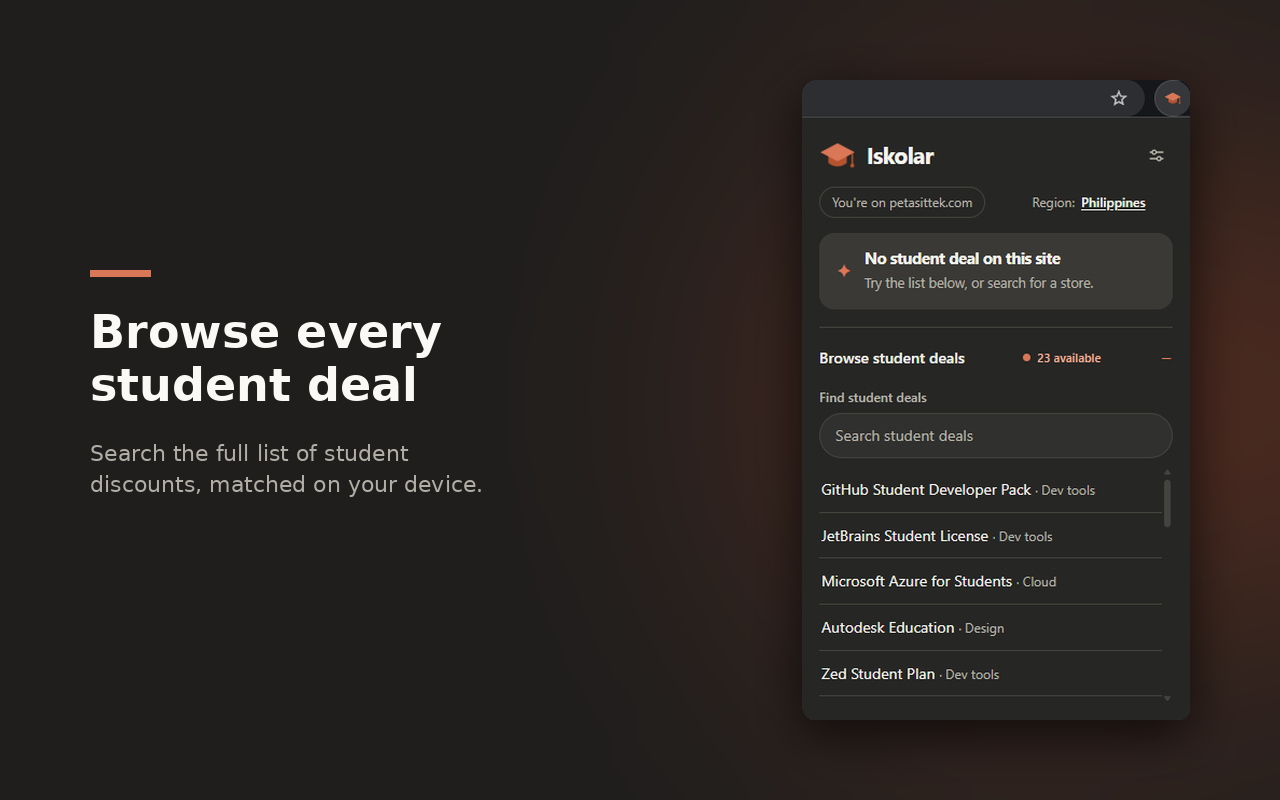
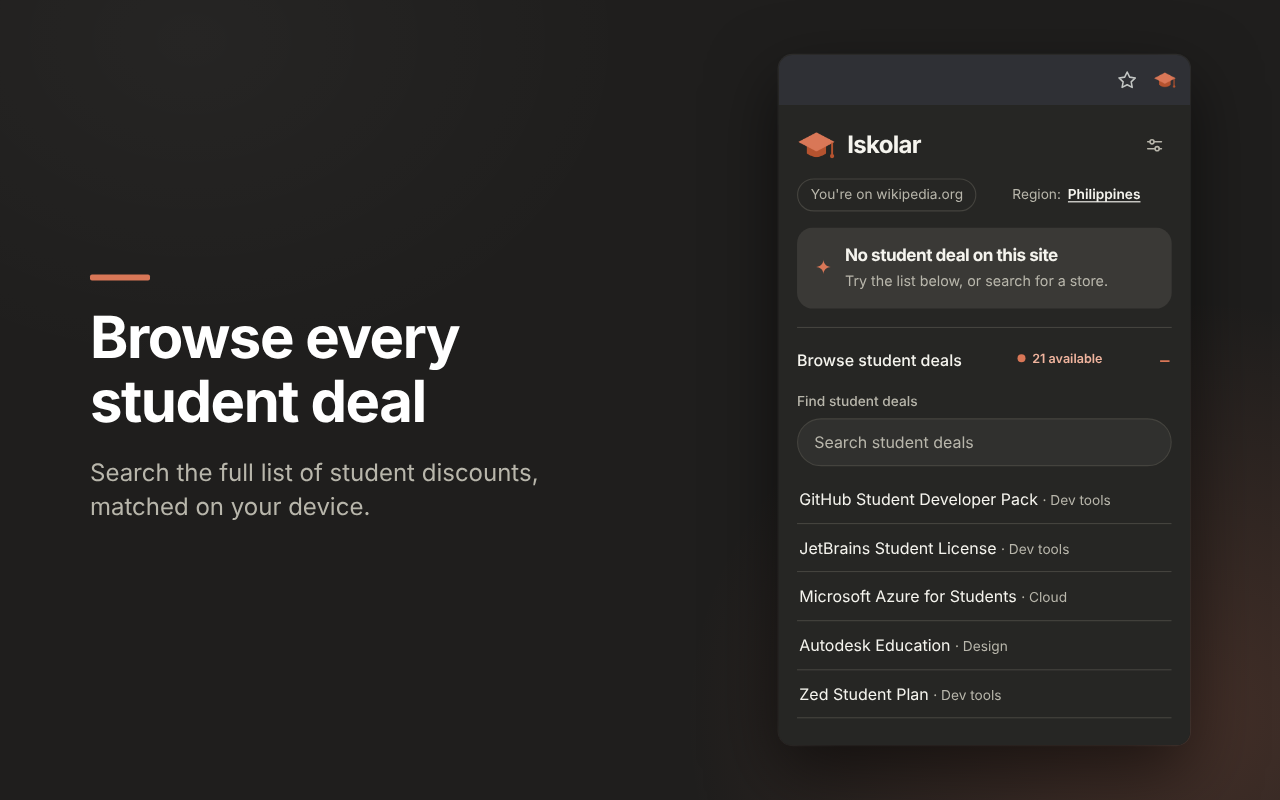
Update case study screenshots

diff --git a/iskolar/index.html b/iskolar/index.html
@@ -34,17 +34,19 @@
           <div><dt>Status</dt><dd>Live on the Chrome Web Store</dd></div>
           <div><dt>Stack</dt><dd>JavaScript, HTML, CSS, Manifest V3</dd></div>
         </dl>
-        <img class="shot" src="/images/iskolar.png" width="1280" height="800" loading="lazy" alt="Iskolar popup in dark mode showing a student offer for the website the user is visiting, with the caption Spot student perks as you browse.">
+        <img class="shot" src="/images/iskolar.png" width="1280" height="800" loading="lazy" alt="Iskolar popup on github.com showing the GitHub Student Developer Pack perk with a View offer button, under the caption Spot student perks as you browse.">
         <section>
           <h2>The project</h2>
           <p>Iskolar is built for students in the Philippines first, with global offers included. Click the extension icon on a website and it checks whether a student deal is known for that site, then shows the eligibility requirements, caveats, the last verification month, and a link to the official offer page.</p>
           <p>It is a guide, not a guarantee. Offers change, so every card points back to the provider's own page for the current terms.</p>
         </section>
+        <img class="shot" src="/images/iskolar-badge.png" width="1280" height="800" loading="lazy" alt="Iskolar popup on spotify.com with a green dot on the toolbar icon and the Spotify Premium Student offer expanded to show who qualifies, under the caption A green dot tells you there's a deal.">
         <section>
           <h2>Privacy by design</h2>
           <p>Matching happens in the popup against an offer list that ships with the extension. It asks only for the activeTab permission, opens only HTTPS links, and does not collect browsing history, page content, accounts, or analytics. Theme and footer preferences stay on the device.</p>
         </section>
-        <img class="shot" src="/images/iskolar-browse.png" width="1280" height="800" loading="lazy" alt="Iskolar popup listing student deals that can be browsed and searched, with the caption Browse every student deal.">
+        <img class="shot" src="/images/iskolar-browse.png" width="1280" height="800" loading="lazy" alt="Iskolar popup listing student deals with a search box, under the caption Browse every student deal.">
+        <img class="shot" src="/images/iskolar-philippines.png" width="1280" height="800" loading="lazy" alt="Iskolar popup on philippineairlines.com showing a 20% off student discount, under the caption Made for students in the Philippines.">
         <section>
           <h2>My role</h2>
           <p>I designed, built, and packaged Iskolar on my own. That covered domain matching against the bundled offers, region filtering for the Philippines and other countries, dark and light themes, a settings panel, and a browsable list of every student deal.</p>

diff --git a/civicguard/index.html b/civicguard/index.html
@@ -34,12 +34,13 @@
           <div><dt>Status</dt><dd>In development, live</dd></div>
           <div><dt>Stack</dt><dd>Laravel 12, MySQL, Tailwind CSS, Alpine.js</dd></div>
         </dl>
-        <img class="shot civic" src="/images/civicguard.png" width="1919" height="913" loading="lazy" alt="CivicGuard home page reading Report an issue in Barangay Maimpis, with a five-step example of following a report from problem to resolved.">
+        <img class="shot civic" src="/images/civicguard.png" width="1440" height="900" loading="lazy" alt="CivicGuard home page reading Report an issue in Barangay Maimpis, with a five-step example of following a report from problem to resolved.">
         <section>
           <h2>The project</h2>
           <p>CivicGuard is our capstone project at Our Lady of Fatima University. It was designed to improve incident reporting and curfew monitoring in Barangay Maimpis by connecting residents with barangay staff through one web platform.</p>
           <p>Residents can submit reports, track updates, and follow what happens next. Staff can review, assign, update, and manage incidents from the same system.</p>
         </section>
+        <img class="shot phone" src="/images/civicguard-mobile.png" width="390" height="844" loading="lazy" alt="CivicGuard home page on a phone, with Create a resident account and Install app buttons above the report progress example.">
         <section>
           <h2>My role</h2>
           <p>I led a four-member team as Project Manager and Full-Stack Developer, coordinating the project while building major parts of the application.</p>

diff --git a/styles.css b/styles.css
@@ -61,7 +61,8 @@ article h1{font-size:2.6rem}
 .proj h3{font-size:1.75rem}
 @media (max-width:34rem){.simple h1{font-size:2.5rem}article h1{font-size:2.2rem}}
 .shot{display:block;width:100%;height:auto;margin-top:1.5rem;border:1px solid var(--line);border-radius:.6rem;object-fit:cover;object-position:center top}
-.shot.civic{aspect-ratio:2/1}
+.shot.civic{aspect-ratio:16/10}
+.shot.phone{width:100%;max-width:19rem;object-fit:contain}
 .progress{position:fixed;top:0;left:0;right:0;height:2px;background:var(--ink);transform:scaleX(0);transform-origin:left;z-index:20}
 .home .shell{max-width:76rem;margin:0 auto;padding:0 1.5rem;display:grid;grid-template-columns:19rem minmax(0,1fr);gap:7rem}
 .side{position:sticky;top:0;align-self:start;height:100dvh;padding:4.5rem 0 2.5rem;display:flex;flex-direction:column}
@@ -86,7 +87,7 @@ article h1{font-size:2.6rem}
 .home h2.label{font:400 .8rem var(--mono);text-transform:lowercase;color:var(--muted);margin:0 0 2.5rem;padding-bottom:.9rem;border-bottom:1px solid var(--line)}
 .item{padding:0 0 5.5rem}
 .frame{overflow:hidden;border:1px solid var(--line);border-radius:.75rem;background:#111;box-shadow:0 8px 0 rgba(255,255,255,.025)}
-.frame.civic{aspect-ratio:2/1}
+.frame.civic{aspect-ratio:16/10}
 .frame img{display:block;width:100%;height:100%;object-fit:cover;object-position:center top;transition:transform 1s cubic-bezier(.2,.7,.2,1)}
 .item-head{display:flex;align-items:center;gap:1rem;margin:1.75rem 0 0}
 .item-head svg,.item-head img{width:2.75rem;height:2.75rem;border-radius:.6rem;display:block;flex:none}

diff --git a/index.html b/index.html
@@ -58,7 +58,7 @@
         </ul>
       </article>
       <article class="item dev reveal">
-        <div class="frame civic"><img src="/images/civicguard.png" width="1919" height="913" loading="lazy" alt="CivicGuard home page reading Report an issue in Barangay Maimpis, with a five-step example of following a report from problem to resolved."></div>
+        <div class="frame civic"><img src="/images/civicguard.png" width="1440" height="900" loading="lazy" alt="CivicGuard home page reading Report an issue in Barangay Maimpis, with a five-step example of following a report from problem to resolved."></div>
         <div class="item-head">
           <img src="/images/civicguard-icon.png" alt="CivicGuard app icon" width="44" height="44">
           <h3>CivicGuard <span class="status">in development</span></h3>
